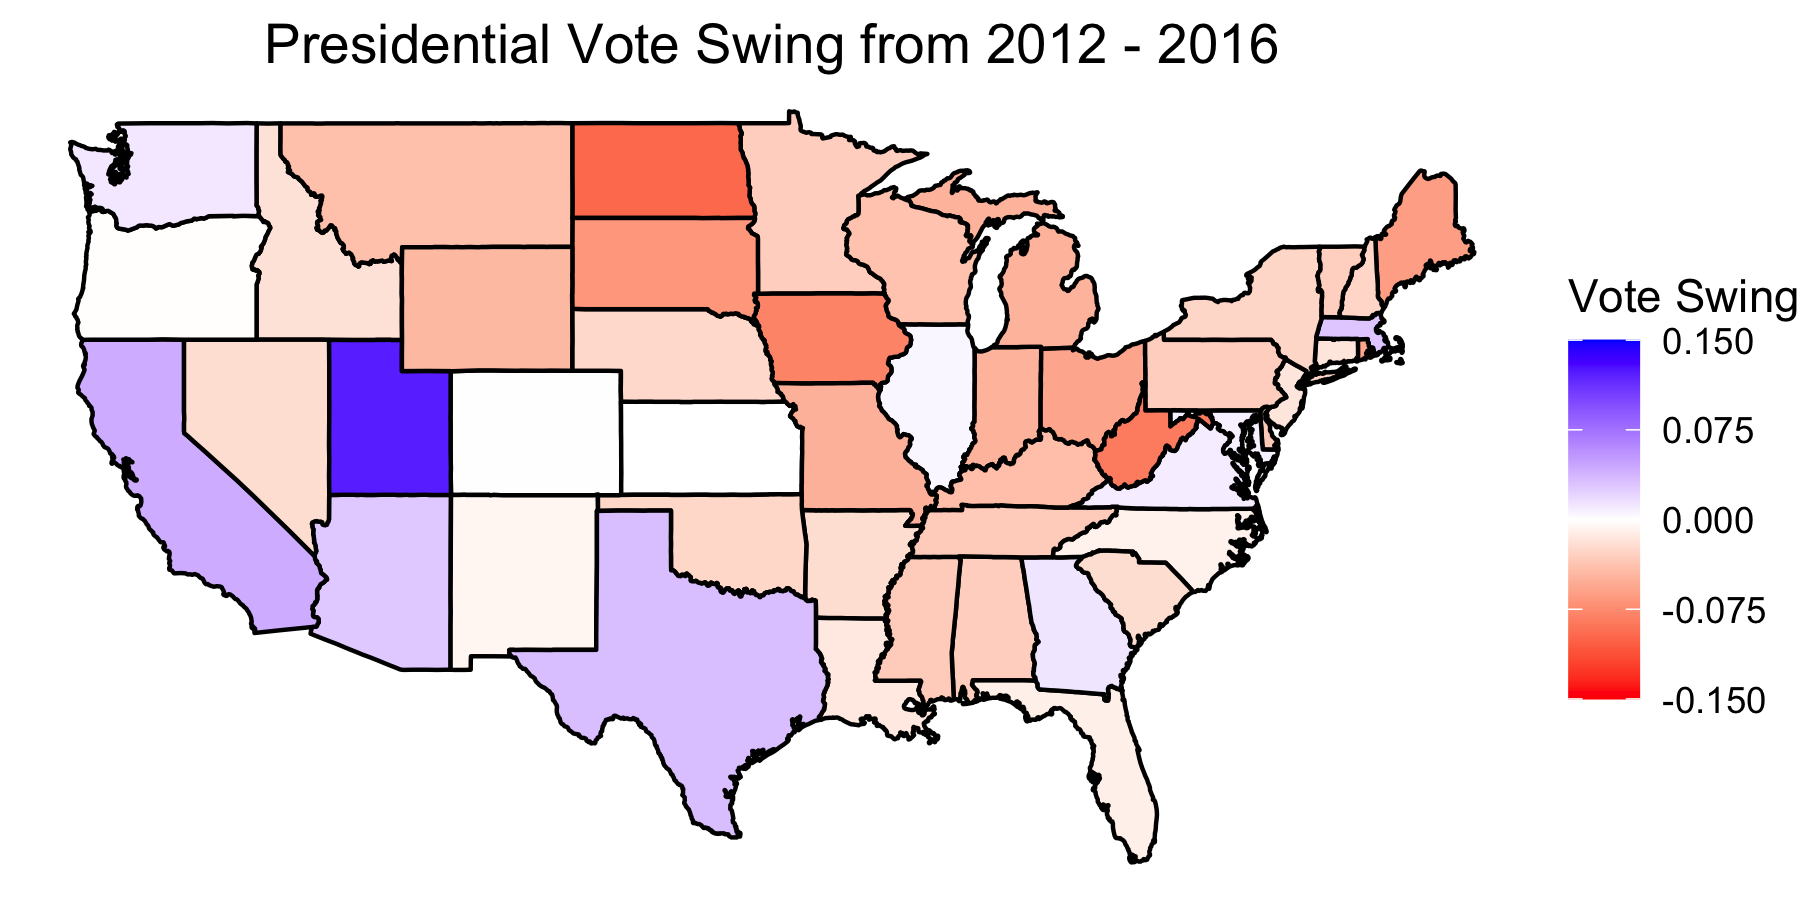
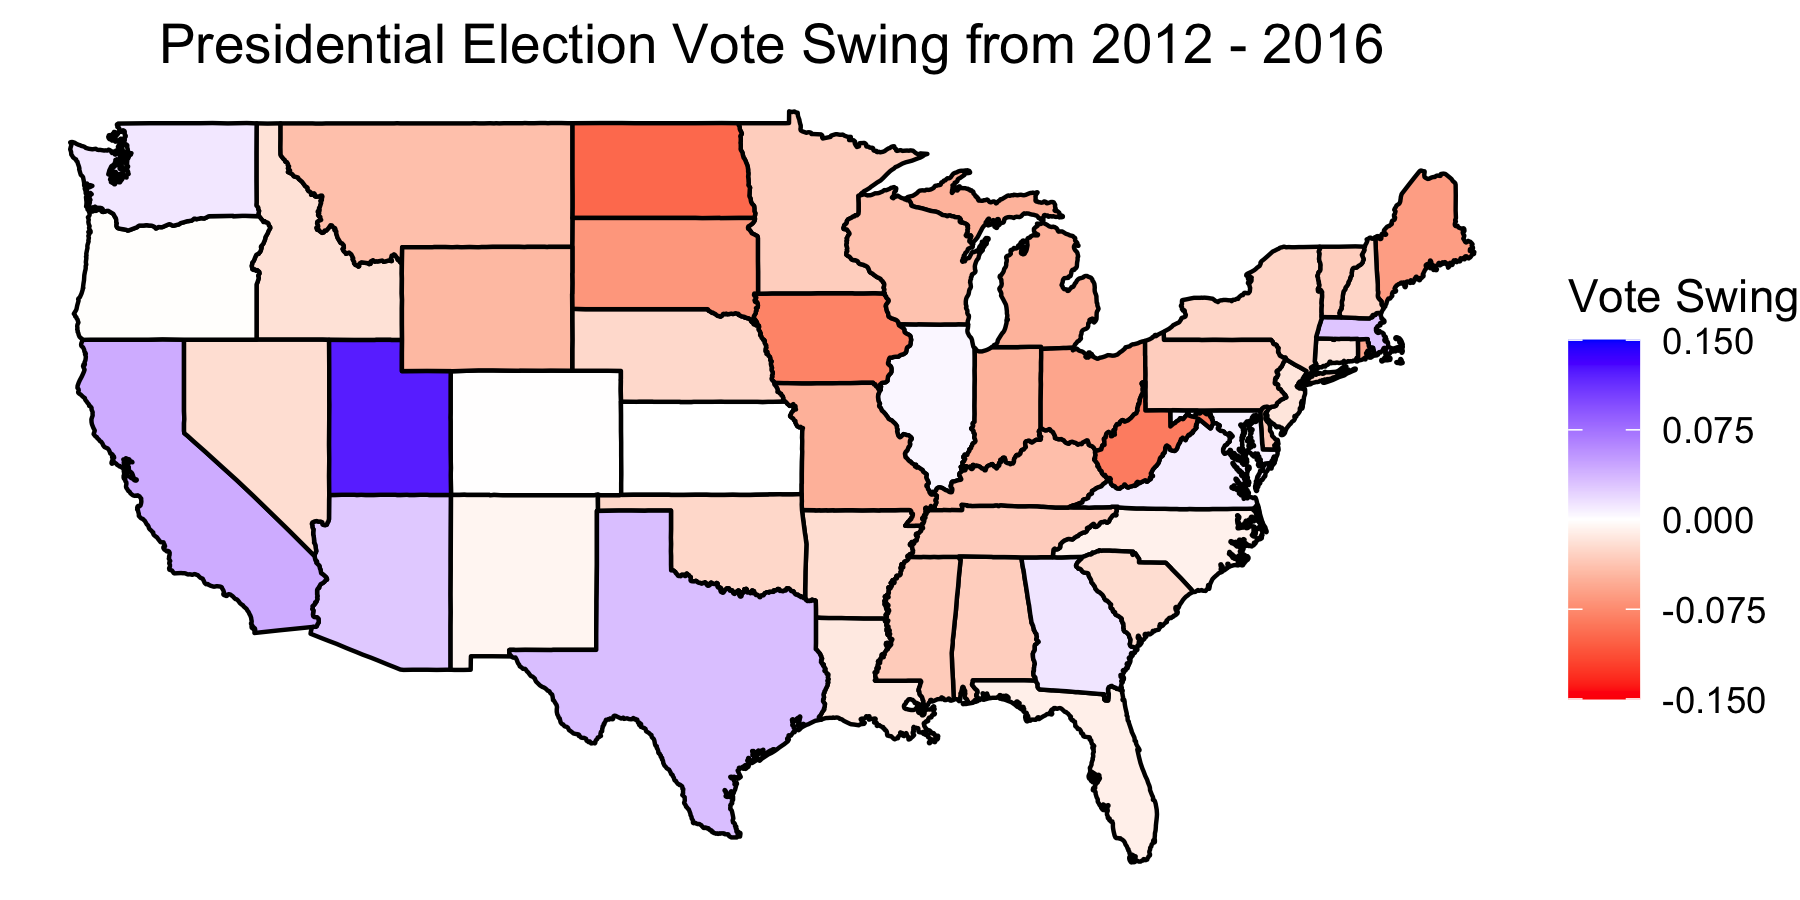
added title

Changed region(s): [[0.0933, 0.0311, 0.7778, 0.0933]]

diff --git a/posts/1_Blog_Post_Intro.md b/posts/1_Blog_Post_Intro.md
@@ -16,8 +16,8 @@ For the purposes of this post, "vote swing," or simply "swing," refers to the di
 
 where D<sub>y</sub> and R<sub>y</sub> are the number of votes for the Democratic Candidate and Republican Candidate in the current election, and D<sub>y-4</sub> and R<sub>y-4</sub> are the number of votes for the Democratic Candidate and Republican Candidate in the prior election. **Note that a positive value means that the state has swung more Democratic, and a negative value means that the state has swung more Republican**. 
 
-#### 2016 Election Swing Map
+#### 2016 Election Swing
 
-![2016 Presidential Election Swing Map ](../figures/PV_states_swing_2016.png)
+![2016 Presidential Election Swing Map](../figures/PV_states_swing_2016.png)
 
 The more blue that a state is, the more that their votes swung in favor of the Democratic Candidate in 2016 compared to 2012. The more red that a state is, the more that their votes swung in favor of the Republican Candidate in 2016 compared to 2012. *This does not mean that the state voted the way that it swung*, but rather that *the state's proportion of votes has shifted more that way*. For example, from 2012 to 2016, we can see that Utah swung more Democratic, but it still voted Republican, and that New York swung more Republican, but it still voted Democratic. 
